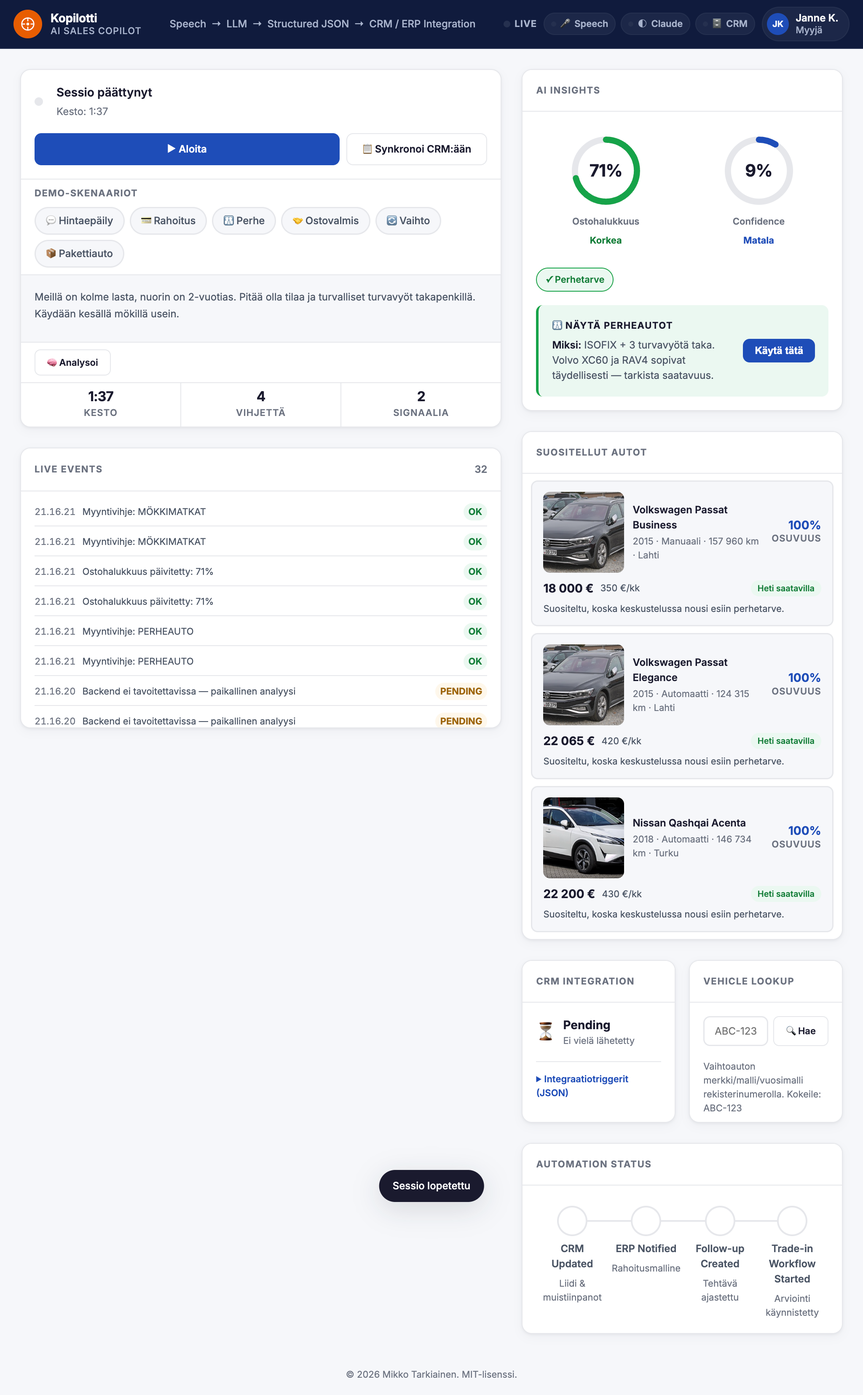
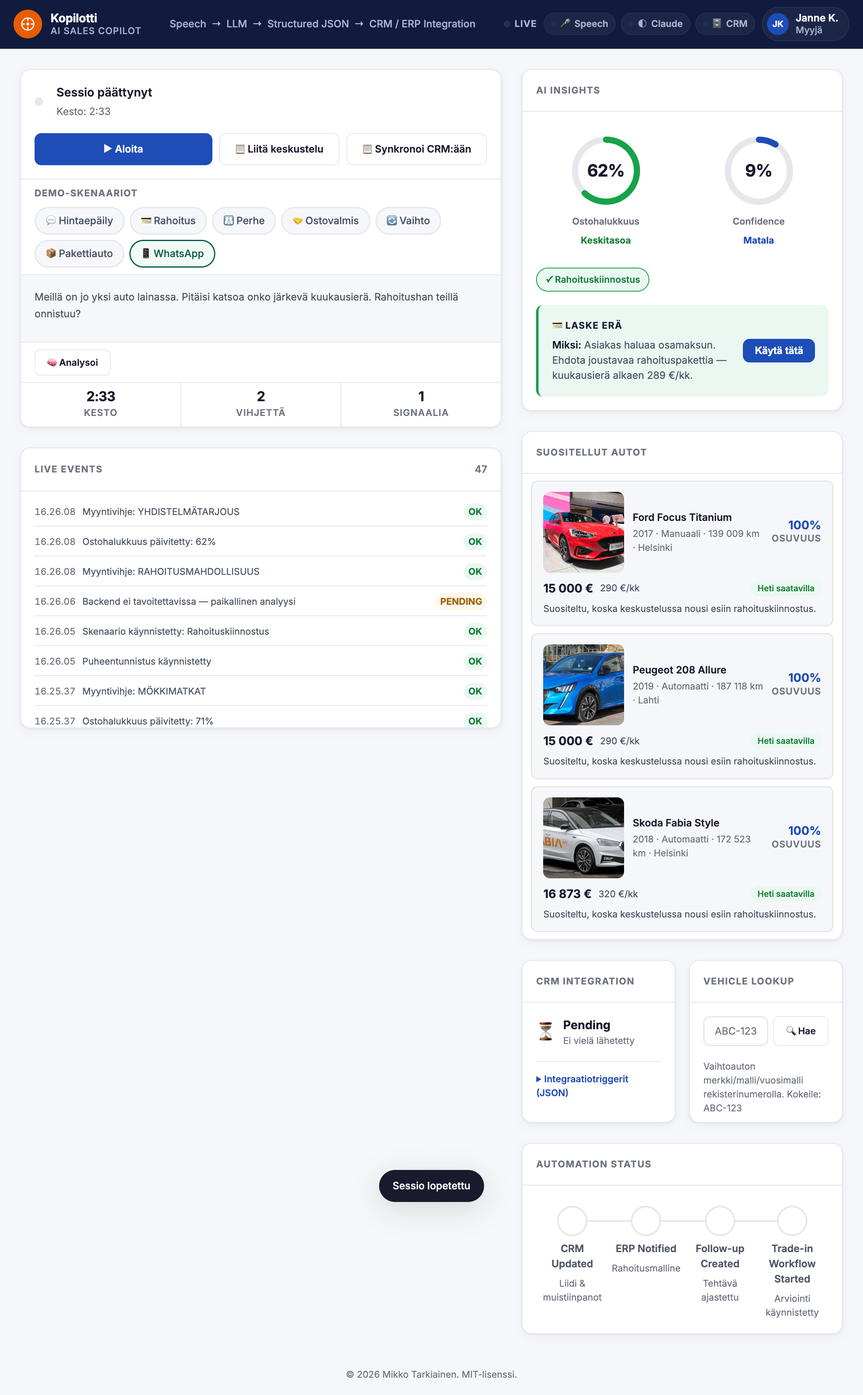
Add WhatsApp scenario, paste-conversation mode, and preference-match fix
- js/vehicle-preferences.js: firstMatch() now treats overlapping matches
  on the same phrase as one mention, not two — fixes "ladattava hybridi"
  incorrectly resolving to bare "hybridi" because the generic hybrid
  regex's match (nested inside the same phrase) started at a later index
  than the more specific plug-in-hybrid regex's match.
- js/app.js, index.html: new "WhatsApp" demo scenario showing the same
  analysis engine (preference extraction, inventory matching,
  business-rules) works on a text-based customer conversation, not just
  speech. New "Liitä keskustelu" (paste conversation) mode lets a seller
  already mid-conversation on a real channel type/paste the growing
  thread into a textarea, reusing the same debounced auto-analyze
  pipeline the microphone uses.
- styles.css: WhatsApp-branded scenario button (#075E54, not the
  brighter #25D366 logo green which fails WCAG AA contrast against
  white text) and paste-textarea styling.
- README.md: documents both features, adds WhatsApp Business API and
  BSP-piggyback integration options to the roadmap, updates the
  screenshot to show the new UI.

diff --git a/js/app.js b/js/app.js
@@ -59,6 +59,52 @@ const SCENARIOS = {
     // forced into one). "Budjetti" in the transcript still produces a
     // genuine price_sensitivity signal via the local regex path.
     meter: 68, meterDesc: 'Yritysasiakas — selkeä tarve', cars: [], signal: 'Pakettiauto'
+  },
+  whatsapp: {
+    // Demonstrates that the analysis pipeline is channel-agnostic: this
+    // transcript never touches SpeechRecognition or the Web Speech API at
+    // all, it's a WhatsApp-style text thread (customer + myyjä turns, plus
+    // media the myyjä sends mid-conversation) fed into the exact same
+    // extractVehiclePreferences()/runBusinessRules()/inventory pipeline
+    // used for the voice scenarios above — same as a live mic session, just
+    // with `currentTranscript` populated from a chat log instead of speech.
+    // The opening line mirrors how a real dealer's "Lähetä WhatsApp-viesti"
+    // link pre-fills the customer's first message (rekisterinumero +
+    // toimipiste), which is genuinely how these conversations start today.
+    //
+    // Deliberately NOT a real WhatsApp Business API integration (no
+    // webhook, no Meta account, no live message sending) — see the
+    // "Miksi Kopilotti on tehty" section of the README for why remote,
+    // text-first sales conversations are the actual scenario this models.
+    //
+    // Media the myyjä sends (tyres, windshield, service-book page, a short
+    // video) are represented as plain transcript events, not files Claude
+    // or the local fallback actually inspects — Kopilotti flags THAT media
+    // was sent and reminds the myyjä what to verify, it does not grade the
+    // vehicle's condition from the photo itself (see KUVAT-hint below: it
+    // is a workflow reminder, not a condition verdict).
+    text: 'Hei! Minua kiinnostaa auto rekisterinumerolla: HJK-482 - Toimipiste: Tampere. Onko se vielä myynnissä? Myyjä: Hei ja kiitos viestistä! Kyllä on, Skoda Octavia Combi ladattava hybridi. Miten voin auttaa? Asiakas: Etsimme farmaria, pitää olla ladattava hybridi jos mahdollista. Hintaluokka 30-45 000 euroa, automaatti ja ajokilometrejä alle 100 000 km. Voisitko lähettää kuvia renkaista, tuulilasista ja huoltokirjasta ennen kuin tulemme koeajolle? Myyjä: Toki, hetkinen. Myyjä lähetti kuvan renkaista edestä ja takaa. Myyjä lähetti kuvan tuulilasista. Myyjä lähetti kuvan huoltokirjan viimeisimmästä sivusta. Myyjä lähetti lyhyen videon autosta. Tässä kuvat ja video, kaikki näyttää siistiltä mutta katsothan itsekin. Asiakas: Kiitos nopeasta vastauksesta, näyttää hyvältä! Paljonko kuukausierä olisi rahoituksella? Myyjä: Lasketaan heti tarjous ja lähetetään tänne. Asiakas: Hyvä, jos numerot näyttää järkeviltä niin voidaan sopia koeajo jo tällä viikolla.',
+    hints: [
+      { type: 'blue', icon: '📸', title: 'KUVAT JA VIDEO VASTAANOTETTU', text: 'Asiakas pyysi kuvia renkaista, tuulilasista ja huoltokirjasta ennen koeajoa — myyjä lähetti ne. Tarkista itse ennen lähetystä että kuvat vastaavat nykykuntoa, älä luota pelkkään AI-yhteenvetoon.', action: 'Tarkista kuvat' },
+      { type: 'green', icon: '💳', title: 'RAHOITUSKIINNOSTUS', text: 'Asiakas kysyi kuukausierää heti kuvien jälkeen — vahva ostosignaali etäkaupassa. Lähetä rahoituslaskelma samaan WhatsApp-ketjuun.', action: 'Lähetä rahoituslaskelma' },
+      { type: 'green', icon: '🤝', title: 'KOEAJOPYYNTÖ', text: 'Asiakas on jo valmis sopimaan koeajon tällä viikolla. Varaa aika heti ketjussa kiinni — älä jätä asiakasta odottamaan puhelua.', action: 'Varaa koeajo' },
+    ],
+    // Uses the existing 'Rahoituskiinnostus' scenario-tag (same string the
+    // 'rahoitus' scenario above uses) so signalsFromScenario() maps it to a
+    // real FINANCING Signal via SCENARIO_SIGNAL_TYPE (signals.js) — not a
+    // new/unmapped label. This matters here specifically: unlike
+    // pakettiauto's deliberately-unmapped 'Pakettiauto' tag (that scenario's
+    // recommendations come entirely from the bodyType=van hard filter, so an
+    // empty Detected Signals panel there is fine), THIS scenario's own
+    // meterDesc below claims a strong signal, and the demo scenario path
+    // (analyzeScenario's local fallback) never runs detectLocalSignals() or
+    // derives signals from the canned `hints` array the way live/SSE input
+    // does (see handleSSEEvent's 'hint' case) — the scenario-level tag is
+    // the ONLY source of a Signal here, exactly like every other scenario
+    // above. Financing was picked over purchase-ready because it's the more
+    // concretely stated ask in this transcript ("Paljonko kuukausierä
+    // olisi").
+    meter: 78, meterDesc: 'Vahva etäostosignaali — kuvat tarkistettu, koeajo sovittu', cars: [], signal: 'Rahoituskiinnostus'
   }
 };
 
@@ -164,6 +210,7 @@ async function giveConsent() {
   consentGiven=true;
   consentBox.style.display='none';
   document.getElementById('btnStart').disabled=false;
+  document.getElementById('btnPaste').disabled=false;
   document.getElementById('statusSub').textContent='Suostumus saatu — valmis';
   showToast('✅ Suostumus kirjattu');
 }
@@ -194,11 +241,15 @@ function startSession() {
   showTranscript('');
   document.getElementById('statHints').textContent='0';
   document.getElementById('statSig').textContent='0';
+  document.getElementById('pasteBox').classList.add('hidden');
+  document.getElementById('transcriptArea').classList.remove('hidden');
+  document.getElementById('pasteInput').value='';
 
   document.getElementById('statusDot').classList.add('active');
   document.getElementById('statusTitle').textContent='Sessio käynnissä';
   document.getElementById('statusSub').textContent='Kuuntelen...';
   document.getElementById('btnStart').classList.add('hidden');
+  document.getElementById('btnPaste').classList.add('hidden');
   document.getElementById('btnStop').classList.remove('hidden');
   document.getElementById('btnCRM').classList.remove('hidden');
   document.getElementById('btnAnalyze').disabled=false;
@@ -216,6 +267,68 @@ function startSession() {
     showToast('⚠ Selain ei tue puheentunnistusta — käytä demo-skenaarioita alla');
     document.getElementById('statusSub').textContent='Puheentunnistus ei tuettu — käytä demo-skenaarioita';
   }
+}
+
+// Live text-conversation mode: for when the seller is ALREADY mid-conversation
+// with a customer in a real text channel (WhatsApp, web chat, SMS...) and
+// wants Kopilotti reading along as it happens, without speaking anything out
+// loud. No SpeechRecognition involved at all — the seller pastes/types the
+// growing conversation into #pasteInput themselves (see handlePasteInput()
+// below), copying new messages over from wherever the real conversation is
+// actually happening. Deliberately manual, not an automated read of any
+// external app or API — see the README's "Seuraavaksi" section for why a
+// live WhatsApp Business API webhook is a separate, much larger piece of
+// work than this.
+function startPasteSession() {
+  sessionActive=true;
+  currentScenario=null;
+
+  // Same session-state reset as startSession() above (mic path) — see that
+  // function's own comment for why this matters (stale transcript/signals
+  // otherwise carrying over from a previous session on the same page load).
+  currentTranscript='';
+  lastAutoAnalyzedTranscript='';
+  hints=[];
+  signals=0;
+  businessSignals=[];
+  document.getElementById('statHints').textContent='0';
+  document.getElementById('statSig').textContent='0';
+
+  document.getElementById('transcriptArea').classList.add('hidden');
+  document.getElementById('pasteBox').classList.remove('hidden');
+  const pasteInput = document.getElementById('pasteInput');
+  pasteInput.value='';
+  pasteInput.focus();
+
+  document.getElementById('statusDot').classList.add('active');
+  document.getElementById('statusTitle').textContent='Sessio käynnissä';
+  document.getElementById('statusSub').textContent='Liitä-tila — päivitä keskustelua tekstikenttään sitä mukaa kun se etenee';
+  document.getElementById('btnStart').classList.add('hidden');
+  document.getElementById('btnPaste').classList.add('hidden');
+  document.getElementById('btnStop').classList.remove('hidden');
+  document.getElementById('btnCRM').classList.remove('hidden');
+  document.getElementById('btnAnalyze').disabled=false;
+
+  timer=setInterval(()=>{
+    secs++;
+    const m=Math.floor(secs/60), s=secs%60;
+    document.getElementById('statTime').textContent=`${m}:${s.toString().padStart(2,'0')}`;
+  },1000);
+}
+
+// Fires on every edit to the paste box (input event: typing, paste, cut all
+// included). currentTranscript is simply SET to the box's current full
+// value rather than appended — paste-mode text is edited in place (the
+// seller may paste a new chunk in the middle, fix a typo, etc.), unlike
+// SpeechRecognition's onresult handler which only ever appends finalized
+// segments. Reuses the exact same scheduleAutoAnalyze() debounce used by
+// live mic input, so a burst of pasted text settles for
+// AUTO_ANALYZE_DEBOUNCE_MS before triggering analysis, same as speech
+// pausing.
+function handlePasteInput() {
+  currentScenario=null;
+  currentTranscript = document.getElementById('pasteInput').value;
+  scheduleAutoAnalyze();
 }
 
 function startRecognition() {
@@ -278,6 +391,7 @@ function stopSession() {
   document.getElementById('statusSub').textContent=`Kesto: ${document.getElementById('statTime').textContent}`;
   document.getElementById('btnStop').classList.add('hidden');
   document.getElementById('btnStart').classList.remove('hidden');
+  document.getElementById('btnPaste').classList.remove('hidden');
   document.getElementById('wave').classList.add('hidden');
   setBadgeLive('badgeSpeech', false);
   showToast('Sessio lopetettu');
@@ -292,6 +406,15 @@ function showTranscript(text) {
 
 async function runScenario(key) {
   if(!sessionActive){ if(!consentGiven) giveConsent(); startSession(); }
+  // Defensive, not just startSession()'s own reset: a demo scenario can be
+  // launched while a paste-mode session is already active (sessionActive
+  // true, so the startSession() call above is skipped) — without this, the
+  // scenario would type into the still-hidden transcriptArea while
+  // pasteBox stayed on screen. Cheap to always assert the scenario/mic UI
+  // state regardless of which mode was active before.
+  document.getElementById('pasteBox').classList.add('hidden');
+  document.getElementById('transcriptArea').classList.remove('hidden');
+  document.getElementById('btnPaste').classList.add('hidden');
   currentScenario=key;
   const s=SCENARIOS[key];
   currentTranscript='';
@@ -881,6 +1004,8 @@ function wireEvents() {
   document.getElementById('btnDenyConsent').addEventListener('click', denyConsent);
   document.getElementById('btnGiveConsent').addEventListener('click', giveConsent);
   document.getElementById('btnStart').addEventListener('click', startSession);
+  document.getElementById('btnPaste').addEventListener('click', startPasteSession);
+  document.getElementById('pasteInput').addEventListener('input', handlePasteInput);
   document.getElementById('btnStop').addEventListener('click', stopSession);
   document.getElementById('btnCRM').addEventListener('click', syncToCRM);
   document.getElementById('btnAnalyze').addEventListener('click', analyzeNow);

diff --git a/js/vehicle-preferences.js b/js/vehicle-preferences.js
@@ -68,22 +68,35 @@ const TRANSMISSION_RULES = [
 const OPTIONALITY_MARKERS = /saa olla myös|myös käy|käy myös|tai myös|voi olla myös|sopii myös/i;
 const OPTIONALITY_WINDOW = 30; // chars to look back before a candidate match
 
-// Returns the value of the LAST (furthest-in-text, largest match index)
-// non-optionality-marked match across ALL of `rules` — not the first rule
-// (in priority/declaration order) that happens to match anywhere in the
-// text. The previous version returned as soon as any rule matched, which
-// meant an earlier-declared rule (e.g. BODY_TYPE_RULES' combi, declared
-// before suv) would win even when the customer's actual final statement in
-// the transcript named a different category later on (e.g. "Haluaisin
+// Returns the value of the LAST (furthest-in-text) DISTINCT non-optionality-
+// marked mention across ALL of `rules` — not the first rule (in
+// priority/declaration order) that happens to match anywhere in the text.
+// The original version returned as soon as any rule matched, which meant an
+// earlier-declared rule (e.g. BODY_TYPE_RULES' combi, declared before suv)
+// would win even when the customer's actual final statement in the
+// transcript named a different category later on (e.g. "Haluaisin
 // farmarin... Itse asiassa mietin että ehkä maasturi olisikin parempi" kept
 // resolving to 'combi' because combi is checked first, regardless of where
-// in the text each word actually appeared). Scanning every rule and keeping
-// the match with the greatest `m.index` makes the most RECENT statement win
-// instead, for every category that uses this helper (bodyType, fuel, color,
-// transmission). The OPTIONALITY_MARKERS/OPTIONALITY_WINDOW check is
-// applied identically to every candidate match, unchanged from before.
+// in the text each word actually appeared).
+//
+// "Distinct" matters: a candidate only overrides the current best if it
+// starts at or after the current best's match ENDS (`m.index >=
+// best.endIndex`), not merely at a greater index. Without that guard, a
+// broader/less-specific rule whose match is nested INSIDE a more specific
+// rule's match on the exact same phrase would win purely because its match
+// happens to start a few characters later in the string — e.g. "ladattava
+// hybridi" (FUEL_RULES' dedicated plug-in-hybrid rule) contains the bare
+// word "hybridi" (FUEL_RULES' generic hybrid rule) as a substring; the
+// generic rule's match starts later than the specific rule's match despite
+// both describing the SAME single customer statement, not two separate
+// mentions. Requiring the new match to start after the previous one ENDS
+// means overlapping matches on one phrase are resolved by rule
+// declaration order (more specific rules are deliberately listed first —
+// see FUEL_RULES/BODY_TYPE_RULES comments), while genuinely separate,
+// non-overlapping later statements (the actual mind-change case above)
+// still override earlier ones exactly as intended.
 function firstMatch(text, rules) {
-  let best = null; // { index, value }
+  let best = null; // { index, endIndex, value }
   for (const rule of rules) {
     // Use a global copy of the rule's regex so we can walk ALL occurrences
     // in the text, not just the first — without mutating/sharing lastIndex
@@ -95,7 +108,8 @@ function firstMatch(text, rules) {
     while ((m = globalRegex.exec(text)) !== null) {
       const precedingWindow = text.slice(Math.max(0, m.index - OPTIONALITY_WINDOW), m.index);
       if (!OPTIONALITY_MARKERS.test(precedingWindow)) {
-        if (!best || m.index > best.index) best = { index: m.index, value: rule.value };
+        const endIndex = m.index + m[0].length;
+        if (!best || m.index >= best.endIndex) best = { index: m.index, endIndex, value: rule.value };
       }
       if (m.index === globalRegex.lastIndex) globalRegex.lastIndex++; // guard against zero-length matches
     }

diff --git a/index.html b/index.html
@@ -107,6 +107,7 @@
       <!-- Btns -->
       <div class="btn-row">
         <button class="btn btn-primary" id="btnStart" type="button" disabled>▶ Aloita</button>
+        <button class="btn btn-outline" id="btnPaste" type="button" disabled>📋 Liitä keskustelu</button>
         <button class="btn btn-danger hidden" id="btnStop" type="button">⬛ Lopeta</button>
         <button class="btn btn-outline hidden" id="btnCRM" type="button">📋 Synkronoi CRM:ään</button>
       </div>
@@ -120,12 +121,26 @@
         <button class="scenario-btn" type="button" data-scenario="osto">🤝 Ostovalmis</button>
         <button class="scenario-btn" type="button" data-scenario="vaihto">🔄 Vaihto</button>
         <button class="scenario-btn" type="button" data-scenario="pakettiauto">📦 Pakettiauto</button>
+        <button class="scenario-btn" type="button" data-scenario="whatsapp">📱 WhatsApp</button>
       </div>
 
       <!-- Transcript -->
       <div class="transcript" id="transcriptArea">
         <div class="transcript-placeholder" id="transcriptPlaceholder">Kuuntelu ei käynnissä. Valitse skenaario tai aloita sessio.</div>
         <div id="transcriptText" class="hidden"></div>
+      </div>
+
+      <!-- Paste box: manual live-text input for an already-ongoing text
+           conversation (e.g. a real WhatsApp thread with a customer) —
+           the seller pastes/types the growing conversation here instead of
+           speaking into the mic. Every edit feeds the exact same
+           currentTranscript + scheduleAutoAnalyze() pipeline the mic uses
+           (see js/app.js's handlePasteInput()), so hints, Purchase Intent
+           and Suositellut autot update the same way, just from typed text
+           instead of speech. Hidden unless "📋 Liitä keskustelu" is active. -->
+      <div class="paste-box hidden" id="pasteBox">
+        <label class="visually-hidden" for="pasteInput">Liitä tai kirjoita asiakaskeskustelu</label>
+        <textarea class="paste-textarea" id="pasteInput" placeholder="Liitä tai kirjoita keskustelu tähän sitä mukaa kun se etenee (esim. kopioi uudet viestit WhatsApp Webistä). Kopilotti analysoi tekstin automaattisesti muutaman sekunnin kirjoitustauon jälkeen — täsmälleen samalla tavalla kuin puhetta."></textarea>
       </div>
 
       <!-- Analyze -->

diff --git a/styles.css b/styles.css
@@ -546,6 +546,47 @@ body {
   background: var(--primary-light);
 }
 
+/* WhatsApp brand color — #075E54 (their header teal), not the brighter
+   #25D366 logo green, which only gives a 1.98:1 contrast ratio against
+   white text (fails WCAG AA's 4.5:1 for normal text). #075E54 gives 7.67:1. */
+.scenario-btn[data-scenario="whatsapp"] {
+  border-color: #075E54;
+  color: #075E54;
+  background: rgba(37, 211, 102, 0.08);
+}
+
+.scenario-btn[data-scenario="whatsapp"]:hover,
+.scenario-btn[data-scenario="whatsapp"]:active {
+  border-color: #075E54;
+  color: #fff;
+  background: #075E54;
+}
+
+/* ============ Paste box (manual text-conversation input) ============ */
+.paste-box {
+  padding: var(--space-3);
+  border-top: 1px solid var(--border);
+  background: var(--surface2);
+}
+
+.paste-textarea {
+  width: 100%;
+  min-height: 110px;
+  resize: vertical;
+  padding: 9px 12px;
+  border: 1.5px solid var(--border);
+  border-radius: var(--radius-sm);
+  font-family: inherit;
+  font-size: var(--text-xs);
+  line-height: 1.7;
+  color: var(--text);
+  background: var(--white);
+}
+
+.paste-textarea:focus-visible {
+  border-color: var(--primary);
+}
+
 /* ============ Transcript ============ */
 .transcript {
   padding: var(--space-3);

diff --git a/README.md b/README.md
@@ -4,7 +4,7 @@ Reaaliaikainen tekoälyassistentti, joka analysoi myyjän ja asiakkaan keskustel
 
 **→ [Live demo](https://mikko-lab.github.io/kopilotti-demo/)**
 
-![Kopilotti-käyttöliittymä: AI Insights -mittarit (ostohalukkuus 71 %, confidence 9 %), Suggested Next Action -kortti jossa merkintä tarkistamattomasta tekoälyehdotuksesta, ja Suositellut autot -kortti jossa jokainen tulos näyttää oikean autokuvan ja selittää täsmäävät kriteerit yksitellen](assets/screenshot.png)
+![Kopilotti-käyttöliittymä: demo-skenaariot mukaan lukien uusi vihreä WhatsApp-valinta ja "Liitä keskustelu" -nappi Aloita-napin vieressä, AI Insights -mittarit (ostohalukkuus 62 %, confidence 9 %), Suggested Next Action -kortti jossa merkintä tarkistamattomasta tekoälyehdotuksesta, ja Suositellut autot -kortti jossa jokainen tulos näyttää oikean autokuvan ja selittää täsmäävät kriteerit yksitellen](assets/screenshot.png)
 
 ---
 
@@ -83,12 +83,16 @@ Rakennettu API-pohjaisena arkkitehtuurina, jossa LLM-analyysi toimii erillisenä
 - **Strukturoitu tekoälyvastaus (tool use)** — backend ei enää pyydä Claudelta vapaata tekstiä omalla rivietuliite-protokollalla, vaan pakottaa vastauksen JSON-skeeman mukaiseksi Anthropicin tool use -ominaisuudella (`emit_analysis`). Poistaa kokonaisen luokan hiljaisia parse-virheitä, joissa yksittäinen poikkeava rivi (selitysteksti, markdown-koodilohko) tiputti vihjeen jäljettömiin ilman virheilmoitusta.
 - **Automieltymysten tunnistuksen korjaus** — jos asiakas vaihtaa mieltä kesken keskustelun (esim. "farmari" → myöhemmin "maasturi"), järjestelmä poimii nyt viimeisimmän maininnan eikä jää kiinni ensimmäiseen sääntötaulukon mukaiseen osumaan. Live-mikrofonisession tila (transkriptio, tunnistetut signaalit) nollautuu myös oikein sessioiden välillä, ja saman analyysivastauksen sisällä toistuvat signaalityypit eivät enää vääristä ostohalukkuuden confidence-laskentaa keinotekoisesti.
 - **Todennettava asiakassuostumus (hash-ketjutettu audit-loki)** — asiakkaan suostumus puheen analysointiin kirjataan nyt hash-ketjutettuun lokiin (`js/audit-log.js`), jossa jokainen merkintä sitoutuu edellisen SHA-256-hashiin; jälkikäteinen muokkaus tai poisto rikkoo ketjun ja on havaittavissa. Suostumusnäkymän näkyvyys tarkistetaan `getComputedStyle`:llä ennen hyväksynnän kirjaamista — jos näkymä on esim. piilotettu CSS:llä, suostumusta ei hiljaa hyväksytä. Kieltäytyminen lukitsee session käynnistyksen oikeasti, ei vain näytä ilmoitusta.
+- **Kanavariippumaton analyysi — WhatsApp-skenaario** — sama analyysimoottori (mieltymysten poiminta, varastonhaku, business-rules) toimii nyt myös tekstimuotoiselle asiakaskeskustelulle, ei vain puheelle: uusi "WhatsApp"-demo-skenaario syöttää putkeen WhatsApp-tyylisen asiakas/myyjä-ketjun (aloitus mukailee oikeaa "Lähetä WhatsApp-viesti" -esitäyttöformaattia) sen sijaan että transkriptio tulisi puheentunnistuksesta. Myyjän lähettämät kuvat/video (renkaat, tuulilasi, huoltokirja) näkyvät ketjussa tapahtumina joista Kopilotti muistuttaa tarkistamaan ne itse — AI ei anna kuntoverdiktiä kuvista, vain nostaa oikean toimenpiteen esiin. Ei oikeaa WhatsApp Business API -integraatiota (ei webhookia, ei Meta-tiliä) — tarkoitus on osoittaa että keskustelukanava on arkkitehtuurisesti vaihdettavissa, ei rakentaa live-integraatiota.
+- **Liitä keskustelu — live-analyysi todellisesta tekstikeskustelusta** — uusi "📋 Liitä keskustelu" -tila edellisen rinnalle: kun myyjä on jo kesken oikean asiakaskeskustelun (esim. WhatsAppissa), hän voi liittää/kirjoittaa kasvavaa keskustelua Kopilottiin sitä mukaa kun se etenee. Jokainen muokkaus syöttää saman `currentTranscript`+`scheduleAutoAnalyze()`-putken jota mikrofoni käyttää — vihjeet, ostohalukkuus ja Suositellut autot päivittyvät automaattisesti muutaman sekunnin kirjoitustauon jälkeen, täysin ilman puhetta. Tarkoituksella manuaalinen (myyjä kopioi viestit itse) — ei automaattista yhteyttä mihinkään ulkoiseen sovellukseen.
 
 ### Seuraavaksi: Oikeat integraatiot
 Mock-triggerit korvataan oikeilla API-kutsuilla integraatioalustan (Workato / Frends) kautta:
 - **CRM webhook** → follow-up task syntyy automaattisesti
 - **ERP-kutsu** → tarjouspohja esitäytetään rahoitusnumerolla
 - **Varastonhallinta** → reaaliaikainen saatavuus ehdotetuille autoille
+- **Oikea WhatsApp Business API -integraatio** — nykyinen "Liitä keskustelu" -tila (ks. yllä) vaatii myyjää kopioimaan viestit käsin; oikea versio lukisi WhatsApp-keskustelun automaattisesti Metan Cloud API:n webhookin kautta, ilman käsin kopiointia. Vaatii oman Meta Business -tilin, verifioinnin ja julkisen webhook-osoitteen. Kustannus on käytännössä pieni asiakaslähtöisissä keskusteluissa — Meta ei veloita Cloud API:n käytöstä itsestään, ja asiakkaan aloittama keskustelu avaa 24 tunnin ilmaisen palveluikkunan jonka sisällä vastausviestit ovat maksuttomia — mutta BSP-välittäjän (esim. Twilio, 360dialog) käyttöönotto- ja alustamaksut sekä webhookin kehitystyö ovat todellinen este, ei itse viestiliikenne.
+- **Piggyback olemassa olevan asiakaspalvelutyökalun päälle** — monilla autotaloilla on jo käytössä BSP-pohjainen inbox-työkalu (esim. respond.io, SleekFlow) joka näyttää WhatsApp-keskustelut selaimessa valmiiksi rakennetun WhatsApp-yhteyden takana. Sen sijaan että Kopilotti rakentaisi oman webhookin, se voisi asentua sivupaneelina SIIHEN työkaluun (sama selainlaajennus-tekniikka kuin edellä), lukien jo näkyvissä olevan keskustelun. Säästää koko Meta-tilin/webhookin rakentamisen jos autotalolla on jo tällainen työkalu käytössä — mutta tekee Kopilotista riippuvaisen valitun BSP-työkalun käyttöliittymän rakenteesta, joka voi vaihdella tai muuttua työkalun päivittyessä.
 
 ### Data ja oppiminen
 Jokaisesta kohtaamisesta kertyy dataa — ostohalukkuus, signaaliyhdistelmät, konversio. Ajan myötä tunnistettavissa esim. että "vaihtoauto + rahoituskiinnostus" konvertoi 40% paremmin kuin muut. Datan avulla mallia voidaan finetunata.
@@ -104,7 +108,7 @@ Jokaisesta kohtaamisesta kertyy dataa — ostohalukkuus, signaaliyhdistelmät, k
 
 1. Avaa [https://mikko-lab.github.io/kopilotti-demo/](https://mikko-lab.github.io/kopilotti-demo/)
 2. Paina **"✓ Asiakas hyväksyi"**
-3. Valitse demo-skenaario **Rahoitus** tai **Perhe** — nämä tuottavat myös osuvat automieltymyssignaalit, joten "Suositellut autot" -kortti näyttää tekoälypohjaisen varastonhaun oikeasti toiminnassa. (Skenaariot Ostovalmis ja Vaihto koskevat tarkoituksella vain ostoprosessin vaihetta, eivät automieltymystä — niissä ei siksi näy autosuosituksia, mikä on tarkoituksellista, ei virhe.)
+3. Valitse demo-skenaario **Rahoitus**, **Perhe** tai **WhatsApp** — nämä tuottavat myös osuvat automieltymyssignaalit, joten "Suositellut autot" -kortti näyttää tekoälypohjaisen varastonhaun oikeasti toiminnassa. WhatsApp-skenaario näyttää saman moottorin toimivan tekstikeskustelulle puheen sijaan. (Skenaariot Ostovalmis ja Vaihto koskevat tarkoituksella vain ostoprosessin vaihetta, eivät automieltymystä — niissä ei siksi näy autosuosituksia, mikä on tarkoituksellista, ei virhe.)
 4. Seuraa vihjeitä sekä ostohalukkuus- ja confidence-mittareita reaaliajassa
 5. Paina **"📋 Synkronoi CRM:ään"** → näet automaattisen tilapäivityksen, Automation Status -putken ja integraatiotriggerit
 
